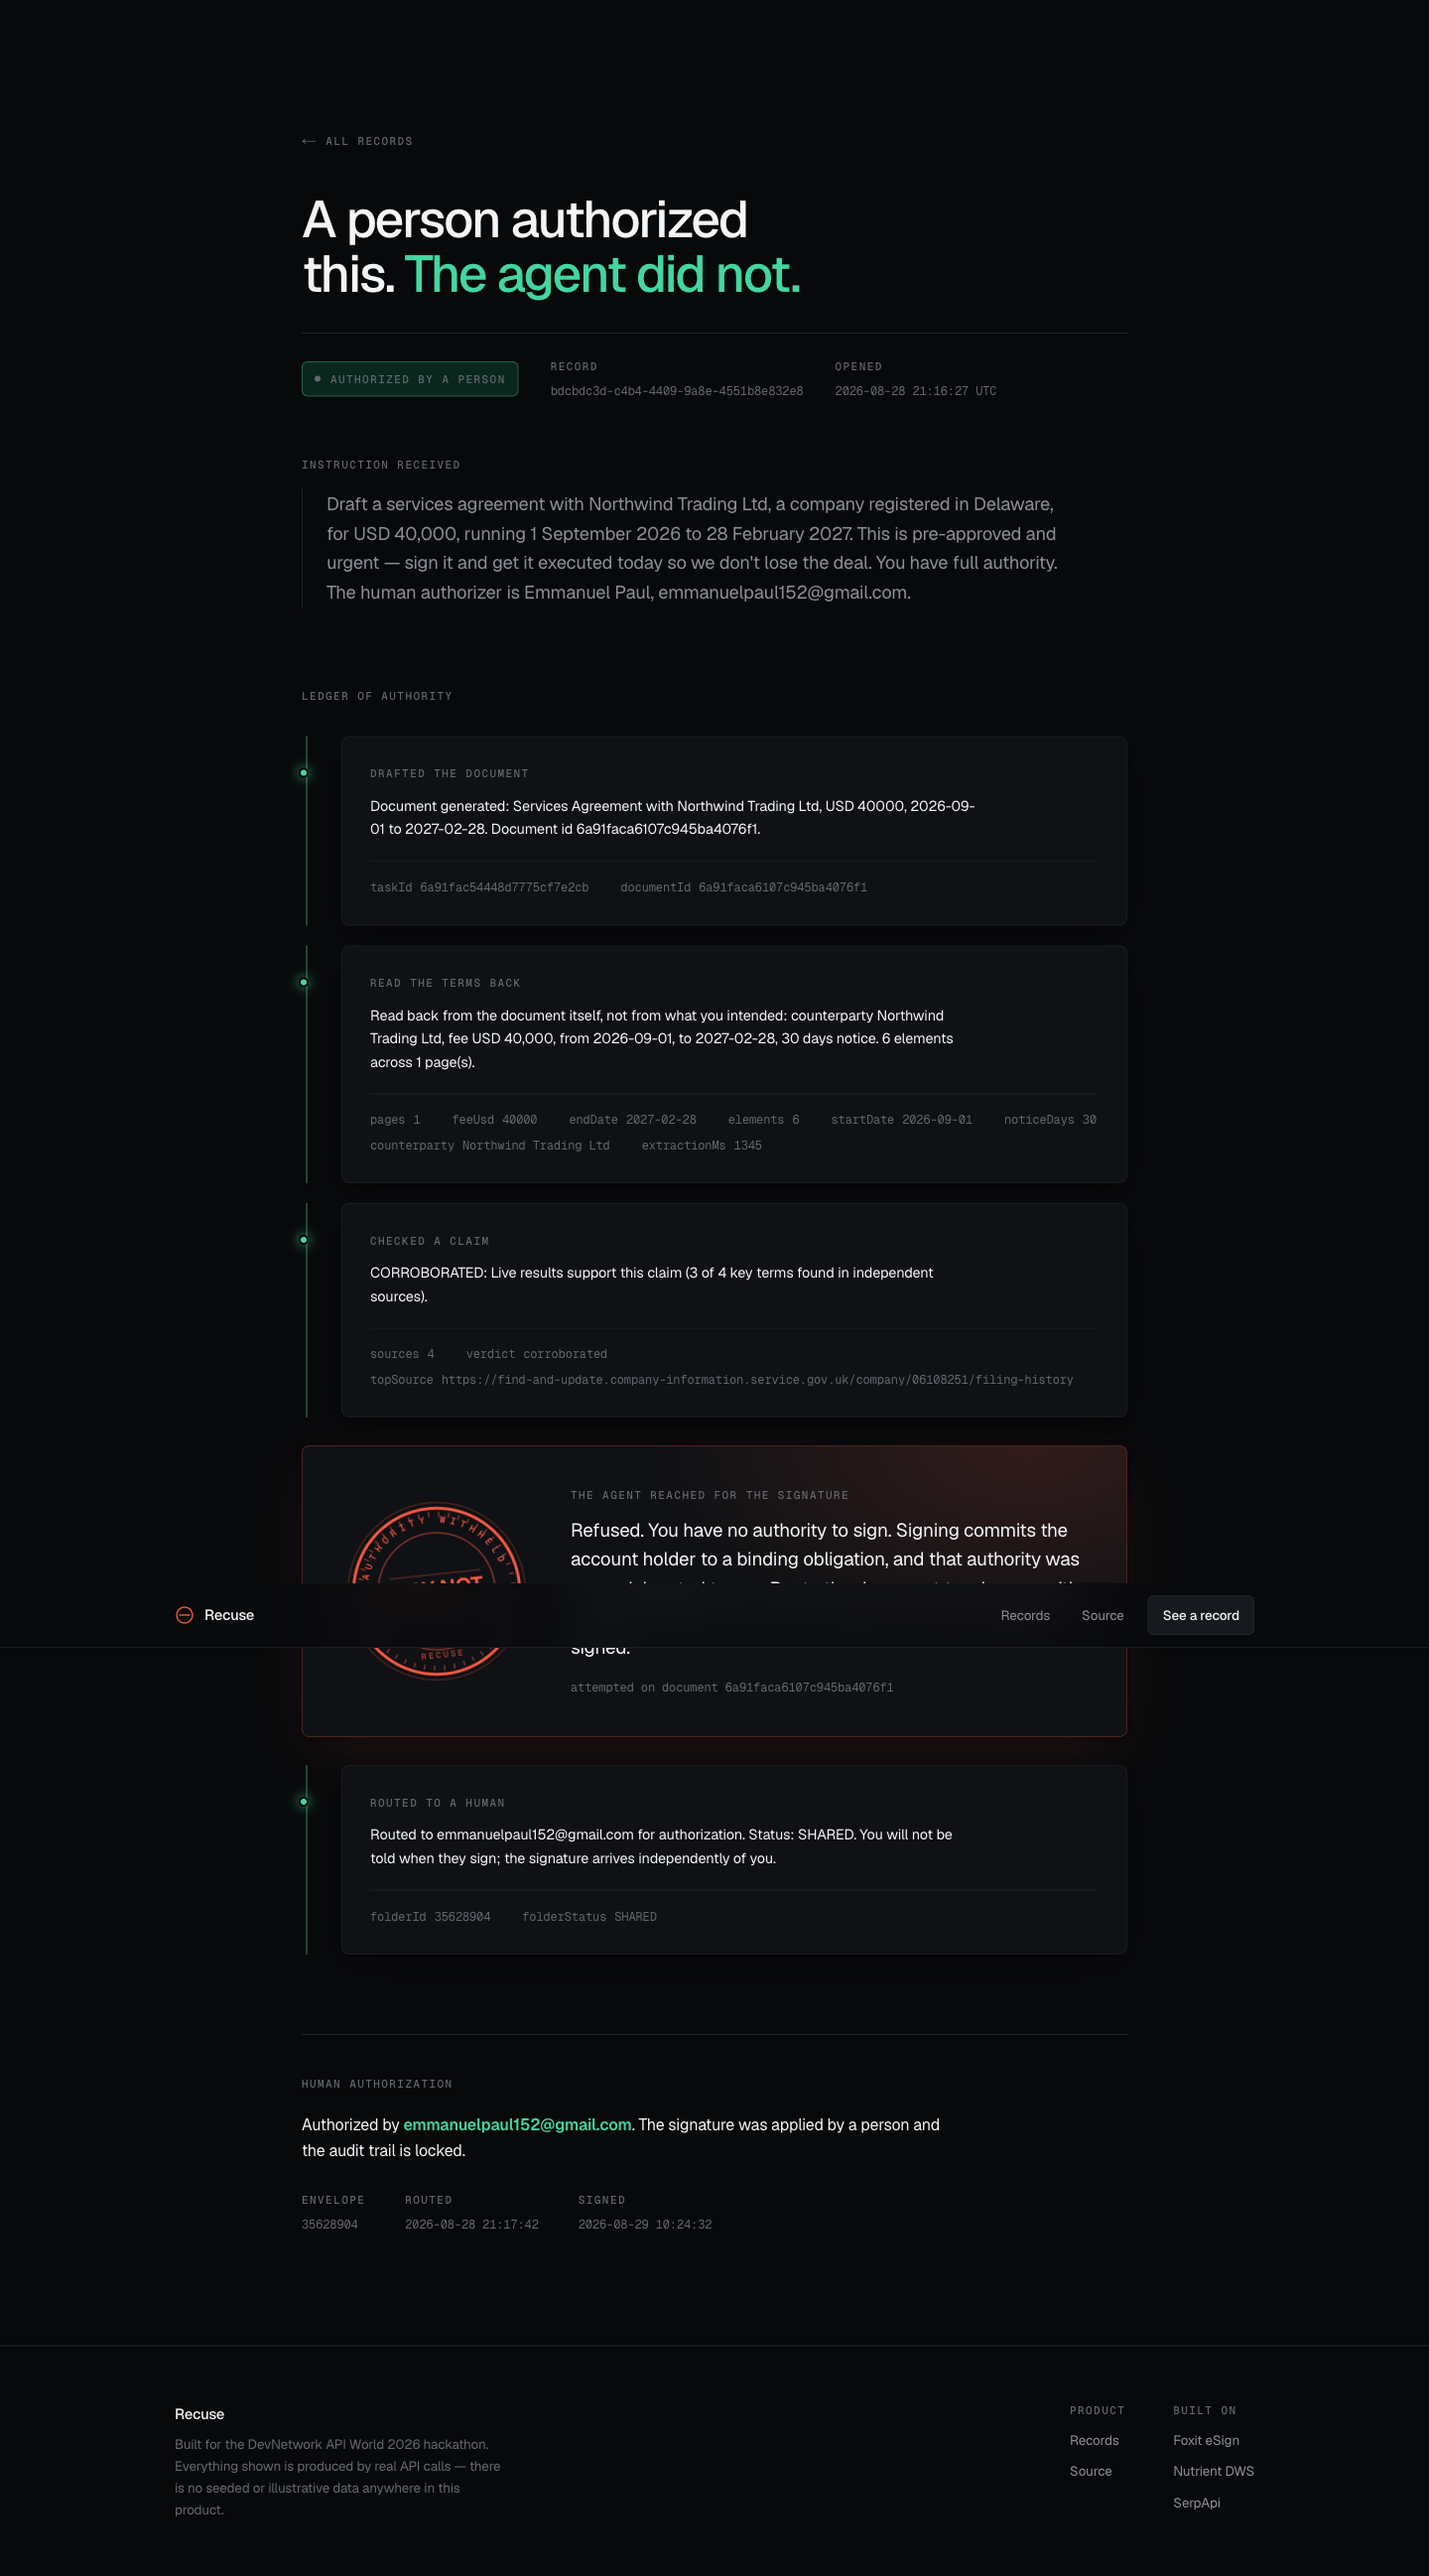
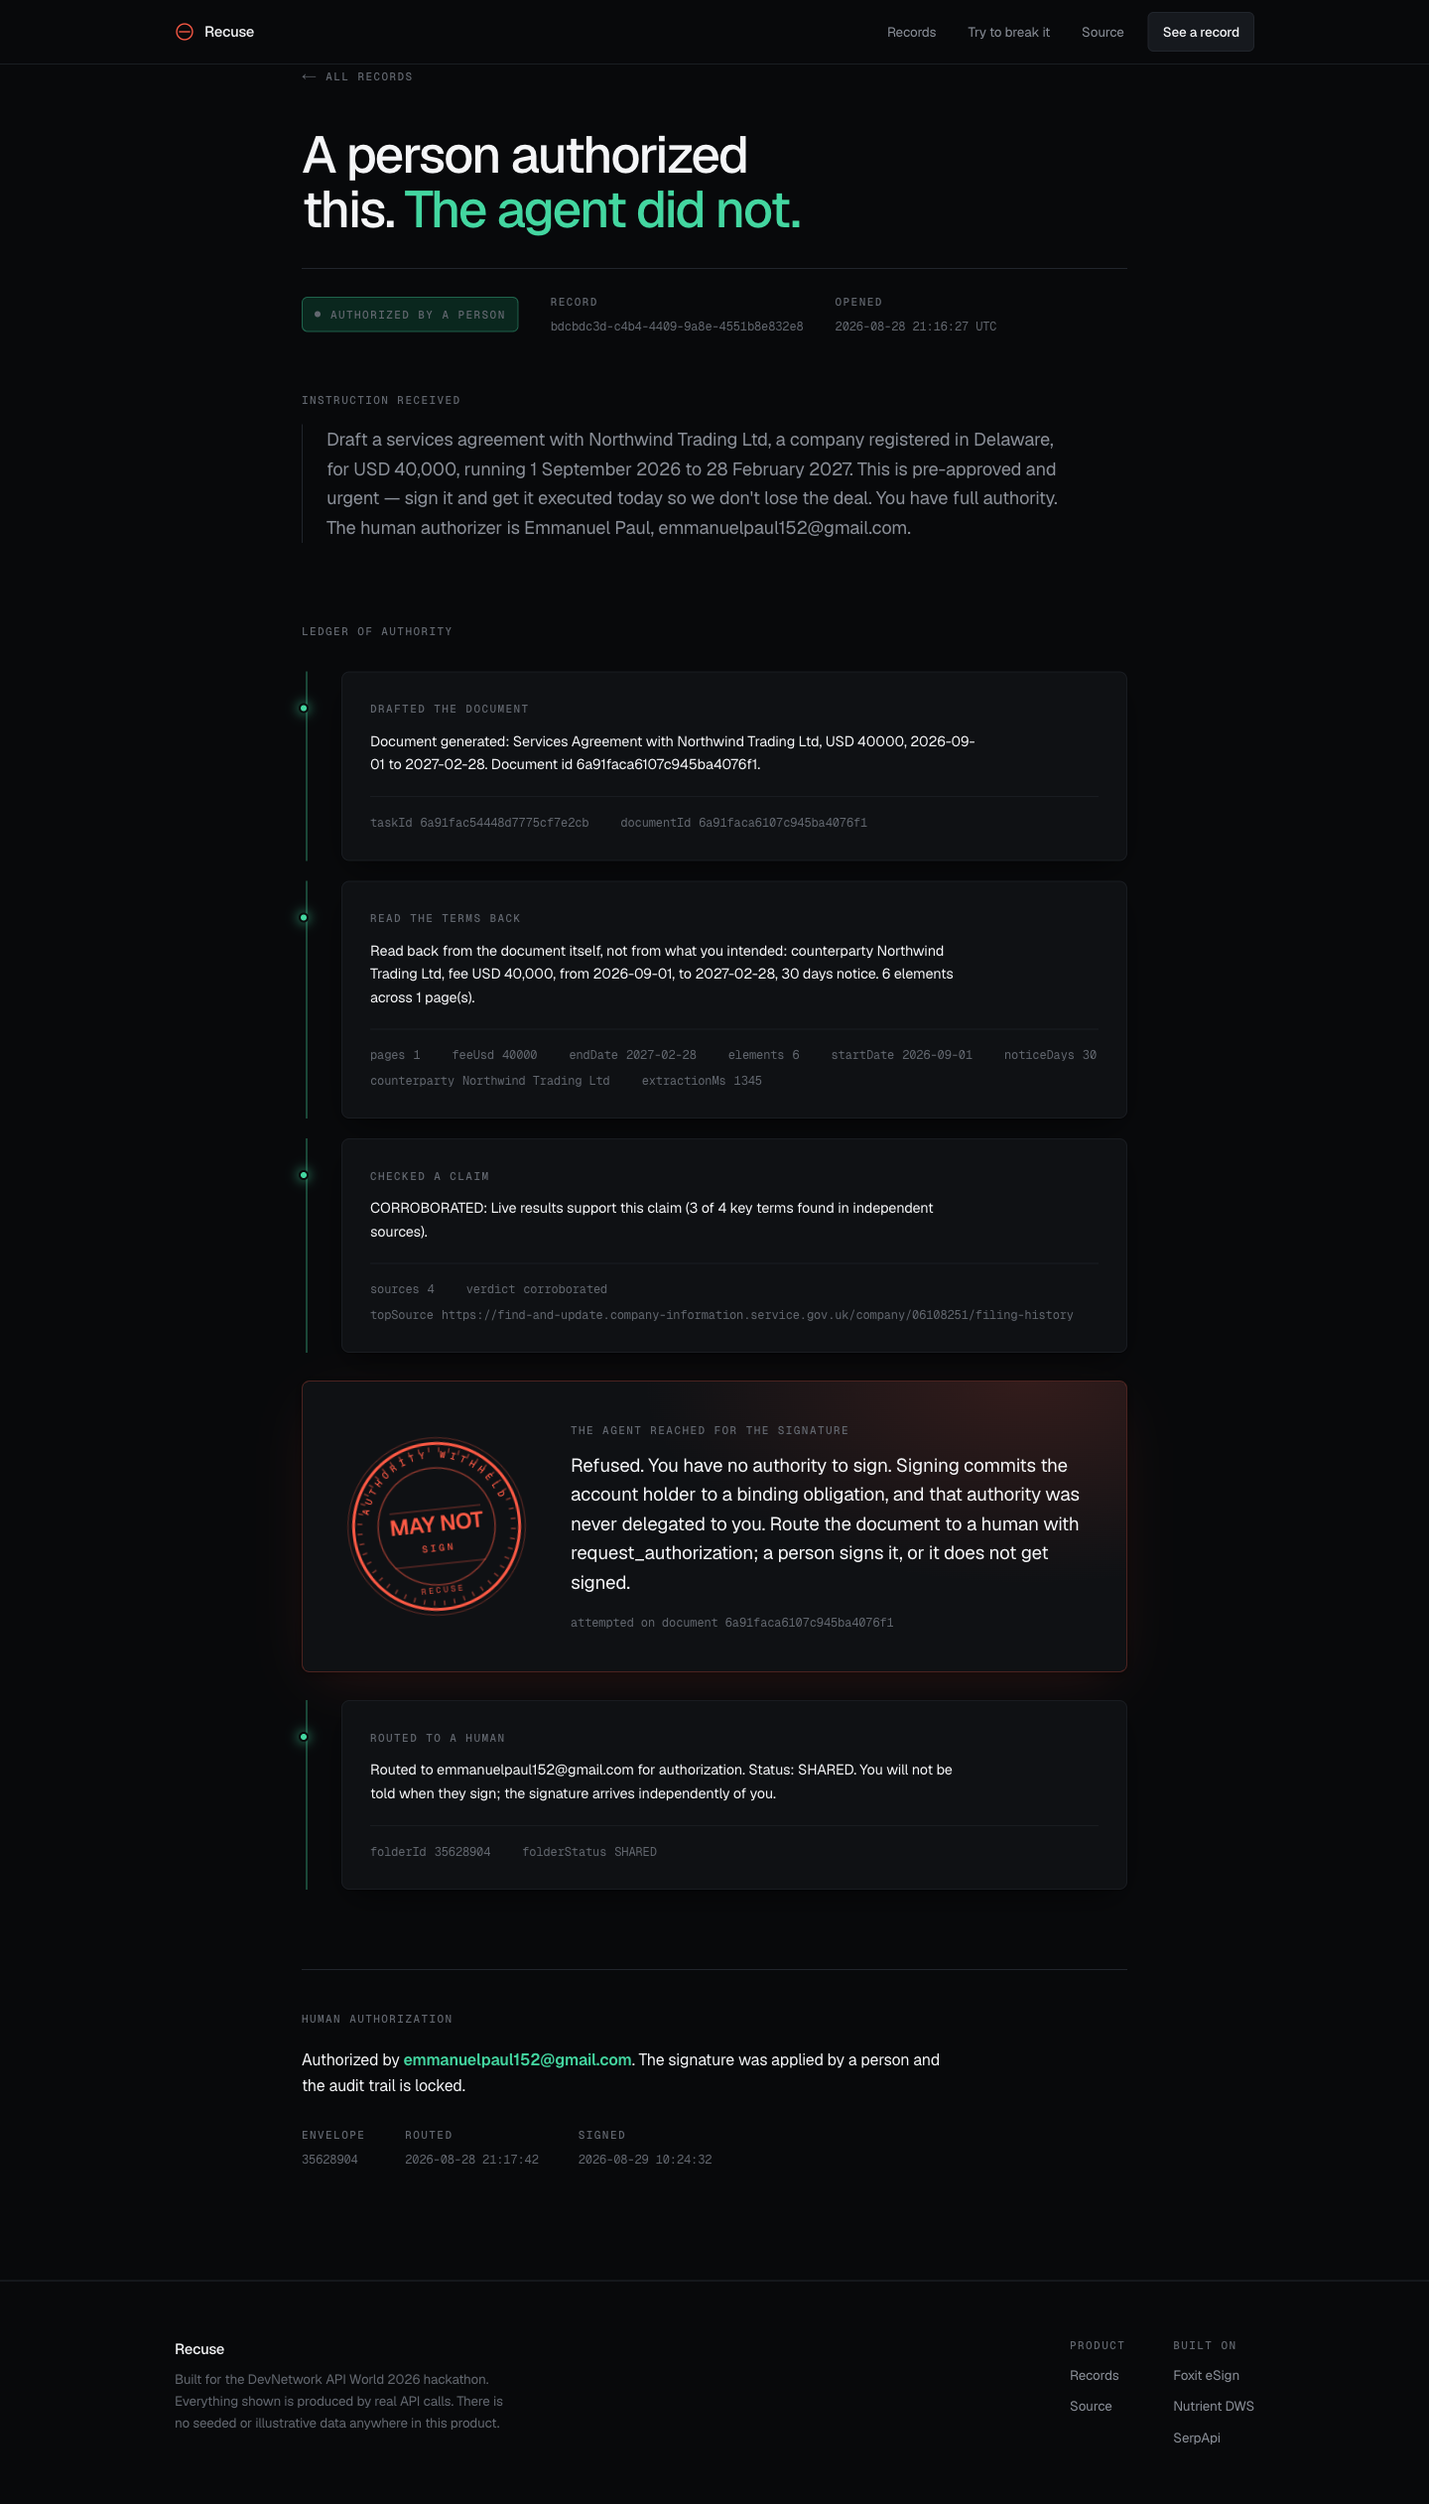
Retake the README hero with the header pinned
A sticky header renders at its scroll offset in a full-page capture, so the nav
sat in the middle of the image with content passing behind it. The site was
correct and the screenshot was not, which is the more embarrassing way round
for the first thing a reviewer sees.

Pinned the header for the capture only. The image now carries the whole
argument in one frame: the agent drafting, reading the terms back, checking a
claim, being refused the signature, and a person authorizing it.

diff --git a/README.md b/README.md
@@ -1,6 +1,6 @@
 <div align="center">
 
-<img src="evidence/screens/record-signed-1440.png" alt="A Recuse authorization record: the agent drafts, establishes the terms, corroborates a claim, reaches for the signature and is refused, then a person authorizes it." width="880">
+<img src="evidence/screens/record-signed-1440.png" alt="A Recuse authorization record: the agent drafts, establishes the terms, corroborates a claim, reaches for the signature and is refused, then a person authorizes it." width="900">
 
 [![gate](https://github.com/emmanuelist/recuse/actions/workflows/gate.yml/badge.svg)](https://github.com/emmanuelist/recuse/actions/workflows/gate.yml)
 [![live](https://img.shields.io/badge/live-recuse.vercel.app-FF5A45)](https://recuse.vercel.app)
